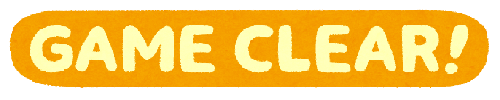
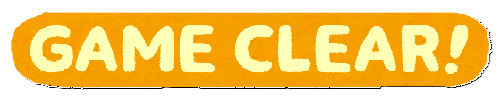
スコアによる残機UP(エクステンド）を実装。ステージクリア時の次のステージに移行するタイミングの変更。ステージクリア・ゲームオーバー表示とついでにミスした際の画像の透過処理を行いました

diff --git a/games/matter_stg/Main.js b/games/matter_stg/Main.js
@@ -20,7 +20,7 @@ bossCategory = 0x0008; // ボスオブジェクトのカテゴリ
 const WIDTH  = 830;
 let wall_left, wall_right, wall_top;
 let stage = 1;
-let substage = 0;
+let substage = 1;
 let setstage = true;
 let score = 0;
 let jikix=400;
@@ -36,7 +36,7 @@ let keyd = false;
 let power = 0;
 let shotwait = 0;
 let refrectwait = 50;
-let zanki = 6;
+let zanki = 3;
 let respawnwait = 0;
 let clear = true;
 let miss = false;
@@ -112,8 +112,9 @@ const init = () => {
             let colangle=blockangle+incidence;
             let power=Math.cos(colangle);
             let damege=pair.bodyB.speed*pair.bodyB.mass*pair.bodyB.damegeRate*power;
-            if(damege>0)pair.bodyA.hp=pair.bodyA.hp-damege;
-            //  console.log(blockangle,incidence,colangle,power,damege);
+            if(damege<0)damege=0;
+              pair.bodyA.hp=pair.bodyA.hp-damege;
+              console.log(blockangle,incidence,colangle,power,damege);
             // console.log(pair.bodyB.positionPrev,pair.bodyB.position);
           if(!pair.bodyA.jiki)score=score+damege;
           if(pair.bodyA.jiki)jikihp=pair.bodyA.hp;
@@ -148,7 +149,8 @@ const init = () => {
             let power=Math.cos(colangle);
             let damege=pair.bodyA.speed*pair.bodyA.mass*pair.bodyA.damegeRate*power;
             // console.log(blockangle,incidence,colangle,power,damege);
-            if(damege>0)pair.bodyB.hp=pair.bodyB.hp-damege;
+            if(damege<0)damege=0;
+              pair.bodyB.hp=pair.bodyB.hp-damege;
           if(!pair.bodyB.jiki)score=score+damege;
           if(pair.bodyB.jiki)jikihp=pair.bodyB.hp;
           if(pair.bodyB.hp<=0){
@@ -174,7 +176,7 @@ const init = () => {
 
   
   world_canvas.addEventListener("click", event => {
-    if(shotwait<=0&&!miss){
+    if(shotwait<=0&&!miss&&setstage&&!clear){
       shot(Math.sqrt(Math.pow(event.offsetX - jikix, 2) + Math.pow(event.offsetY - jikiy, 2)));
       shotwait=10;
     }else if(miss&&misstimer==0){
@@ -184,6 +186,9 @@ const init = () => {
       miss=false;
       jikihp=100;
       invincible=120;
+    }else if(clear){
+      setblock();
+      substage++;
     }
   });
   
@@ -200,6 +205,7 @@ const init = () => {
   context.fillStyle = "red";
   context.fill();
   context.closePath();
+  setblock();
   main();
 }
 //　Main関数
@@ -212,9 +218,15 @@ function main() {
       jiki.body.render.sprite.texture=jiki.body.render.sprite.nomal;
     }
   }
+  extendcheck();
   move();
   draw();
   window.requestAnimationFrame(main);
+}
+function extendcheck(){
+  if(score>extend*1000){
+    zanki++;extend++;
+  }
 }
 function move() {
   //キー入力状況に応じた自機の上下左右移動
@@ -234,10 +246,6 @@ function move() {
 
 //　描画関数
 function draw() {
-  if(!setstage){
-    setblock();
-    setstage=true;
-  }
   //画面外に出た弾・ブロックの消滅
   for(i=0;i<tamas.length;){
     tamas[i].timer--
@@ -262,8 +270,9 @@ function draw() {
   // console.log(blocks.length);
   if (blocks.length==0){
     setstage=false;
-    substage++;
+    if(tamas.length==0)clear=true;
   }
+
   //ミスタイマーとミスした自機削除処理
   if(miss&&misstimer>0){
     misstimer--;
@@ -271,7 +280,12 @@ function draw() {
       jiki.removeFromWorld();
     }
   }
+if(clear){
+  clrimg = new Image();
+  clrimg.src = "res/text_gameclear_e.png";
+  context.drawImage(clrimg, 100,200, 500, 100);
 
+}
   //物理演算範囲外の描写
   context.clearRect(830, 30, 340, 270);
   context.clearRect(830, 310, 340, 260);
@@ -324,6 +338,8 @@ function setblock() {
         if(i==1)blocks.push(new Block(Math.random()*742+44,Math.random()*256+144,light,Math.floor(Math.random()*3)+3,Math.random()*10+10,Math.random()*2-1));
         if(i==2)blocks.push(new Block(Math.random()*742+44,Math.random()*256+144,middle,Math.floor(Math.random()*3)+3,Math.random()*10+10,Math.random()*2-1));
         if(i==3)blocks.push(new Block(Math.random()*742+44,Math.random()*256+144,heavy,Math.floor(Math.random()*3)+3,Math.random()*10+10,Math.random()*2-1));
+        setstage=true;
+        clear=false;
       }
     }
   }
